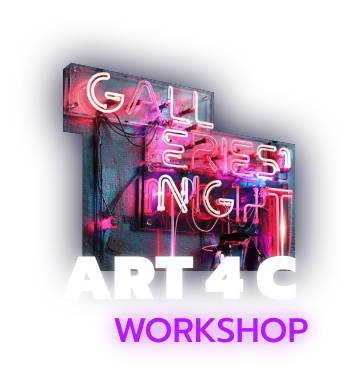
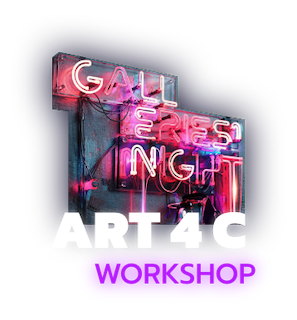
.

diff --git a/src/assets/css/home/section2.scss b/src/assets/css/home/section2.scss
@@ -1,4 +1,6 @@
 .section2 {
+  $urlImage: "../../assets/images";
+
   padding: 2rem 0;
   min-height: 100vh;
   background-color: #030024;
@@ -12,80 +14,110 @@
   }
 
   .content {
+    margin-top: 50px;
     color: white;
-    display: flex;
+    // display: flex;
     min-height: 100vh;
     position: relative;
-    // .map {
-    //   height: 65vh;
-    //   position: absolute;
-    //   top: 60%;
-    //   left: 50%;
-    //   transform: translate(-50%, -50%);
-    // }
-    // .left-top,
-    // .right-top,
-    // .left-bottom,
-    // .right-bottom {
-    //   display: flex;
-    //   position: absolute;
-    //   padding: 25px;
-    //   p {
-    //     font-size: 12px;
-    //     font-family: "Roboto-Bold";
-    //     position: absolute;
-    //     bottom: 0;
-    //     z-index: 2;
-    //   }
-    //   .logo {
-    //     z-index: 2;
-    //   }
-    //   .path {
-    //     position: absolute;
-    //     z-index: 1;
-    //   }
-    // }
 
-    // .left-top {
-    //   top: 11.5%;
-    //   left: 7%;
-    //   p {
-    //     bottom: -10px;
-    //   }
-    //   .path {
-    //     top: 36%;
-    //     left: 48%;
-    //     transform: translate(-33%, 0%);
-    //   }
-    // }
+    .map {
+        width: 50%;
+        position: absolute;
+        top: 47%;
+        left: 55%;
+        transform: translate(-50%, -50%);
+    }
 
-    // .right-top {
-    //   top: 11.5%;
-    //   right: 9%;
-    //   .path {
-    //     top: 38%;
-    //     left: 48%;
-    //     transform: translate(-50%, -12%);
-    //   }
-    // }
-    // .left-bottom {
-    //   bottom: 8%;
-    //   left: 5%;
-    //   .path {
-    //     top: 60%;
-    //     left: 53%;
-    //     transform: translate(-33%, -50%);
-    //   }
-    // }
-    // .right-bottom {
-    //   bottom: 6%;
-    //   right: 5%;
-    //   .path {
-    //     top: 50%;
-    //     right: 50%;
-    //     transform: translate(33%, -60%);
-    //   }
-    // }
+    .left-top,
+    .right-top,
+    .left-bottom,
+    .right-bottom {
+      height: 500px;
+
+      text-align: center;
+      position: relative;
+      p {
+        position: relative;
+        z-index: 2;
+        font-size: 14px;
+      }
+      .logo {
+        position: absolute;
+        right: 50%;
+        transform: translateX(50%);
+        z-index: 2;
+        width: auto;
+        img {
+            max-width: 100%;
+        }
+      }
+      .path {
+        position: absolute;
+        z-index: 1;
+        width: auto;
+        max-width: 100%;
+      }
+    }
+
+    .left-top {
+    //   background-image: url("#{$urlImage}/home/section2/Group 654.svg");
+    //   background-repeat: no-repeat;
+    //   background-size: 90%;
+    //   background-position-x: 618%;
+    //   background-position-y: 519%;
+      .path {
+        right: 42%;
+        top: 20%;
+        transform: translateX(50%);
+      }
+    }
+
+    .right-top {
+    //   background-image: url("#{$urlImage}/home/section2/Group 654.svg");
+    //   background-repeat: no-repeat;
+    //   background-size: 90%;
+    //   background-position-x: -382%;
+    //   background-position-y: 519%;
+      .path {
+        right: 50%;
+        top: 18%;
+        transform: translateX(50%);
+      }
+    }
+
+    .left-bottom {
+    //   background-image: url("#{$urlImage}/home/section2/Group 654.svg");
+    //   background-repeat: no-repeat;
+    //   background-size: 90%;
+    //   background-position-x: 618%;
+    //   background-position-y: -564%;
+      .logo {
+        top: -16%;
+      }
+      .path {
+        right: 40%;
+        top: 0%;
+        transform: translateX(50%);
+      }
+    }
+
+    .right-bottom {
+    //   background-image: url("#{$urlImage}/home/section2/Group 654.svg");
+    //   background-repeat: no-repeat;
+    //   background-size: 90%;
+    //   background-position-x: -382%;
+    //   background-position-y: -564%;
+      .logo {
+        top: 0;
+        right: 45%;
+      }
+      .path {
+        right: 60%;
+        // top: 10%;
+        top: 0%;
+        transform: translateX(50%);
+      }
+    }
   }
 
   .star-group {
@@ -134,12 +166,22 @@
   }
 
   $media: 768px 425px;
-  $mediaSize: 0.5 0.35;
+  $mediaSize: 0.5 0.5;
   @for $i from 1 to length($media) + 1 {
     @media screen and (max-width: nth($media, $i)) {
-        .title {
+      .title {
+        font-size: calc(14px * #{nth($mediaSize, $i)});
+      }
+      .content {
+        .left-top,
+        .right-top,
+        .left-bottom,
+        .right-bottom {
+          p {
             font-size: calc(14px * #{nth($mediaSize, $i)});
+          }
         }
+      }
     }
   }
 }

diff --git a/src/components/home/section2.vue b/src/components/home/section2.vue
@@ -1,42 +1,44 @@
 <template>
-  <div class="section2" :style="section2Height">
+  <div class="section2">
     <div class="container">
       <div class="title">
         {{ $t("section2_title") }}
       </div>
     </div>
 
-    <div class="content" :style="section2Height">
+    <div class="content">
       <div v-for="i in 5" :key="i" class="star-group">
         <div class="blur"></div>
         <div class="star"></div>
       </div>
-      <!-- <img
+      <img
         :src="require('@/assets/images/home/section2/Group 654.svg')"
         class="map"
-      /> -->
+      />
       <div class="row">
-        <div class="left-top col-6">
-          <p>
-            {{ $t("section2_leftTop") }}
-          </p>
-          <img
-            :src="require('@/assets/images/home/section2/Group 812.png')"
-            class="logo"
-          />
+        <div class="left-top col-6" :style="height">
+          <div class="logo">
+            <img
+              :src="require('@/assets/images/home/section2/Group 812.png')"
+            />
+            <p>
+              {{ $t("section2_leftTop") }}
+            </p>
+          </div>
           <img
             :src="require('@/assets/images/home/section2/Path 61.svg')"
             class="path"
           />
         </div>
-        <div class="right-top col-6">
-          <p>
-            {{ $t("section2_rightTop") }}
-          </p>
-          <img
-            :src="require('@/assets/images/home/section2/Group 809.png')"
-            class="logo"
-          />
+        <div class="right-top col-6" :style="height">
+          <div class="logo">
+            <img
+              :src="require('@/assets/images/home/section2/Group 809.png')"
+            />
+            <p>
+              {{ $t("section2_rightTop") }}
+            </p>
+          </div>
           <img
             :src="require('@/assets/images/home/section2/Path 50.svg')"
             class="path"
@@ -45,31 +47,33 @@
       </div>
 
       <div class="row">
-        <div class="left-bottom col-6">
-          <p>
-            {{ $t("section2_leftBottom") }}
-          </p>
-          <img
-            :src="require('@/assets/images/home/section2/Group 811.png')"
-            class="logo"
-          />
+        <div class="left-bottom col-6" :style="height">
           <img
             :src="require('@/assets/images/home/section2/Path 124.svg')"
             class="path"
           />
+          <div class="logo">
+            <img
+              :src="require('@/assets/images/home/section2/Group 811 copy.png')"
+            />
+            <p>
+              {{ $t("section2_leftBottom") }}
+            </p>
+          </div>
         </div>
-        <div class="right-bottom col-6">
-          <p>
-            {{ $t("section2_rightBottom") }}
-          </p>
-          <img
-            :src="require('@/assets/images/home/section2/Group 810.png')"
-            class="logo"
-          />
+        <div class="right-bottom col-6" :style="height">
           <img
             :src="require('@/assets/images/home/section2/Path 420.svg')"
             class="path"
           />
+          <div class="logo">
+            <img
+              :src="require('@/assets/images/home/section2/Group 810 copy.png')"
+            />
+            <p>
+              {{ $t("section2_rightBottom") }}
+            </p>
+          </div>
         </div>
       </div>
     </div>
@@ -82,13 +86,16 @@ import { onBeforeMount, computed } from "vue";
 export default {
   setup() {
     var section2Height = "min-height: 100vh;";
+    var height = "height: 500px;";
 
     onBeforeMount(() => {
       section2Height = `min-height: ${window.innerWidth / 1.5}px;`;
+      height = `height: ${window.innerWidth / 2.5}px`;
     });
 
     return {
       section2Height: computed(() => section2Height),
+      height: computed(() => height),
     };
   },
 };
